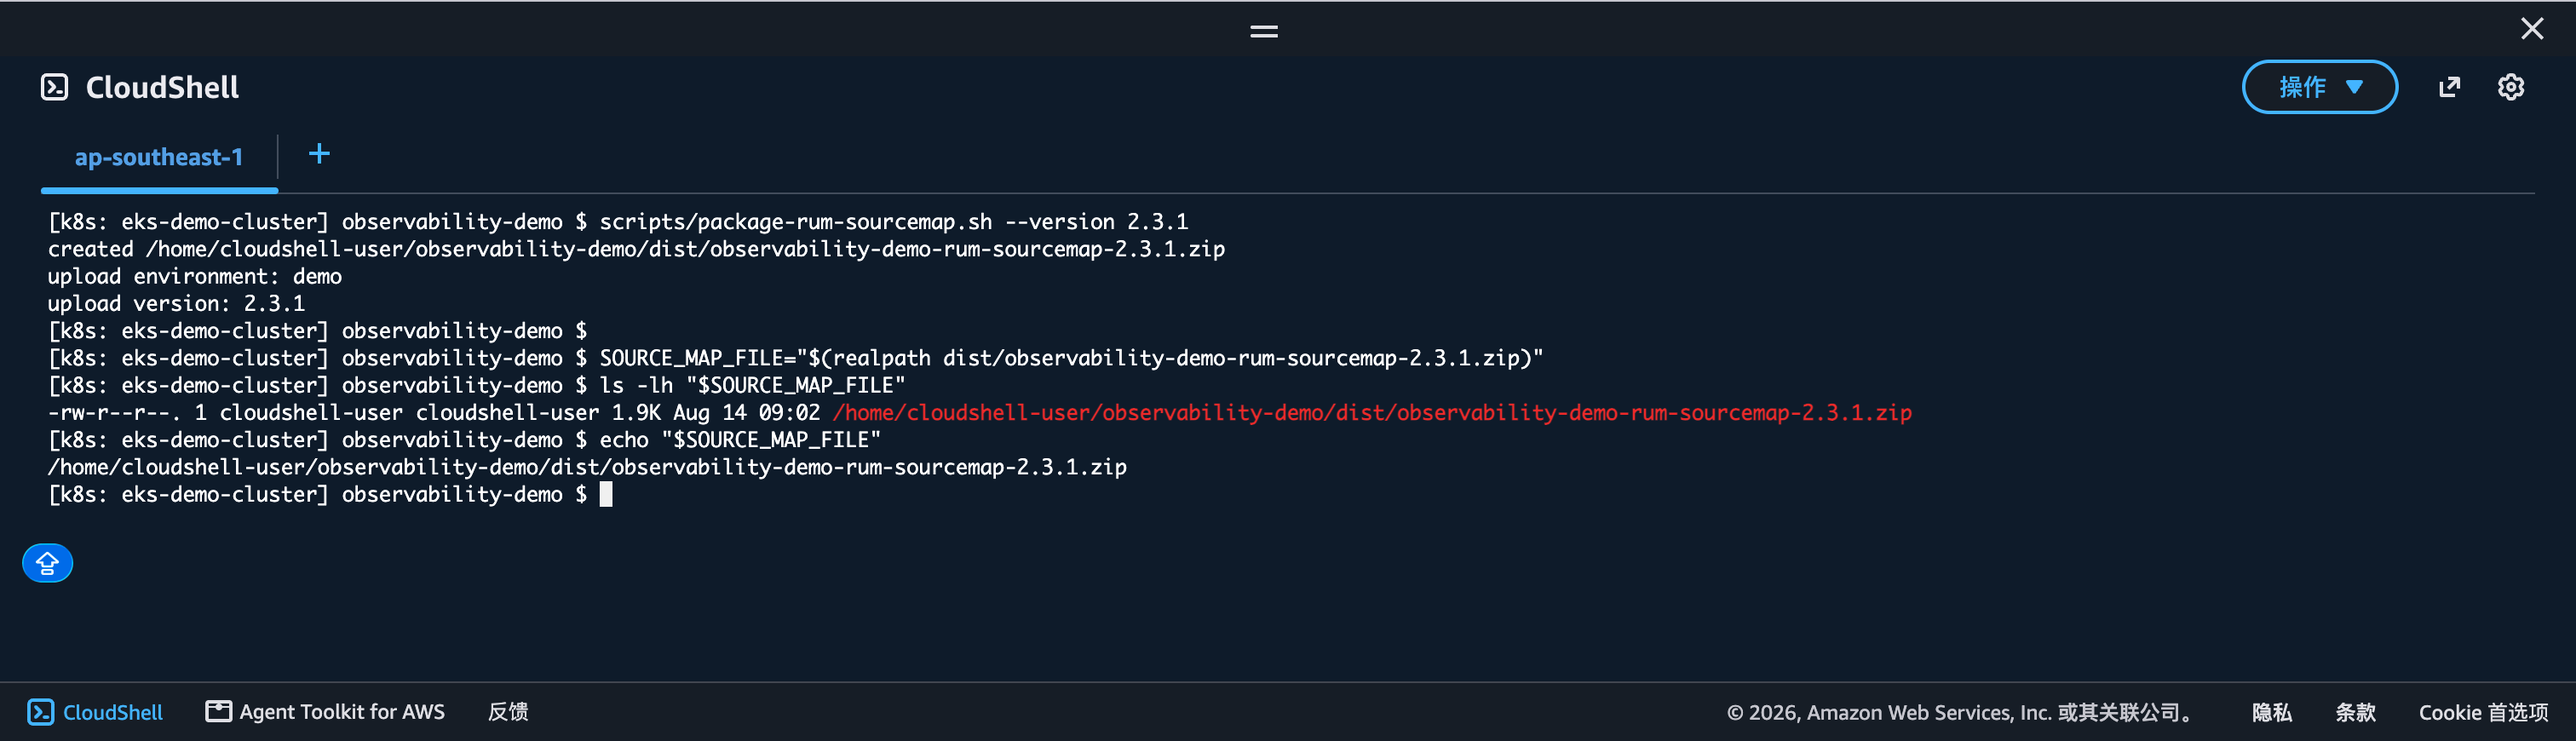
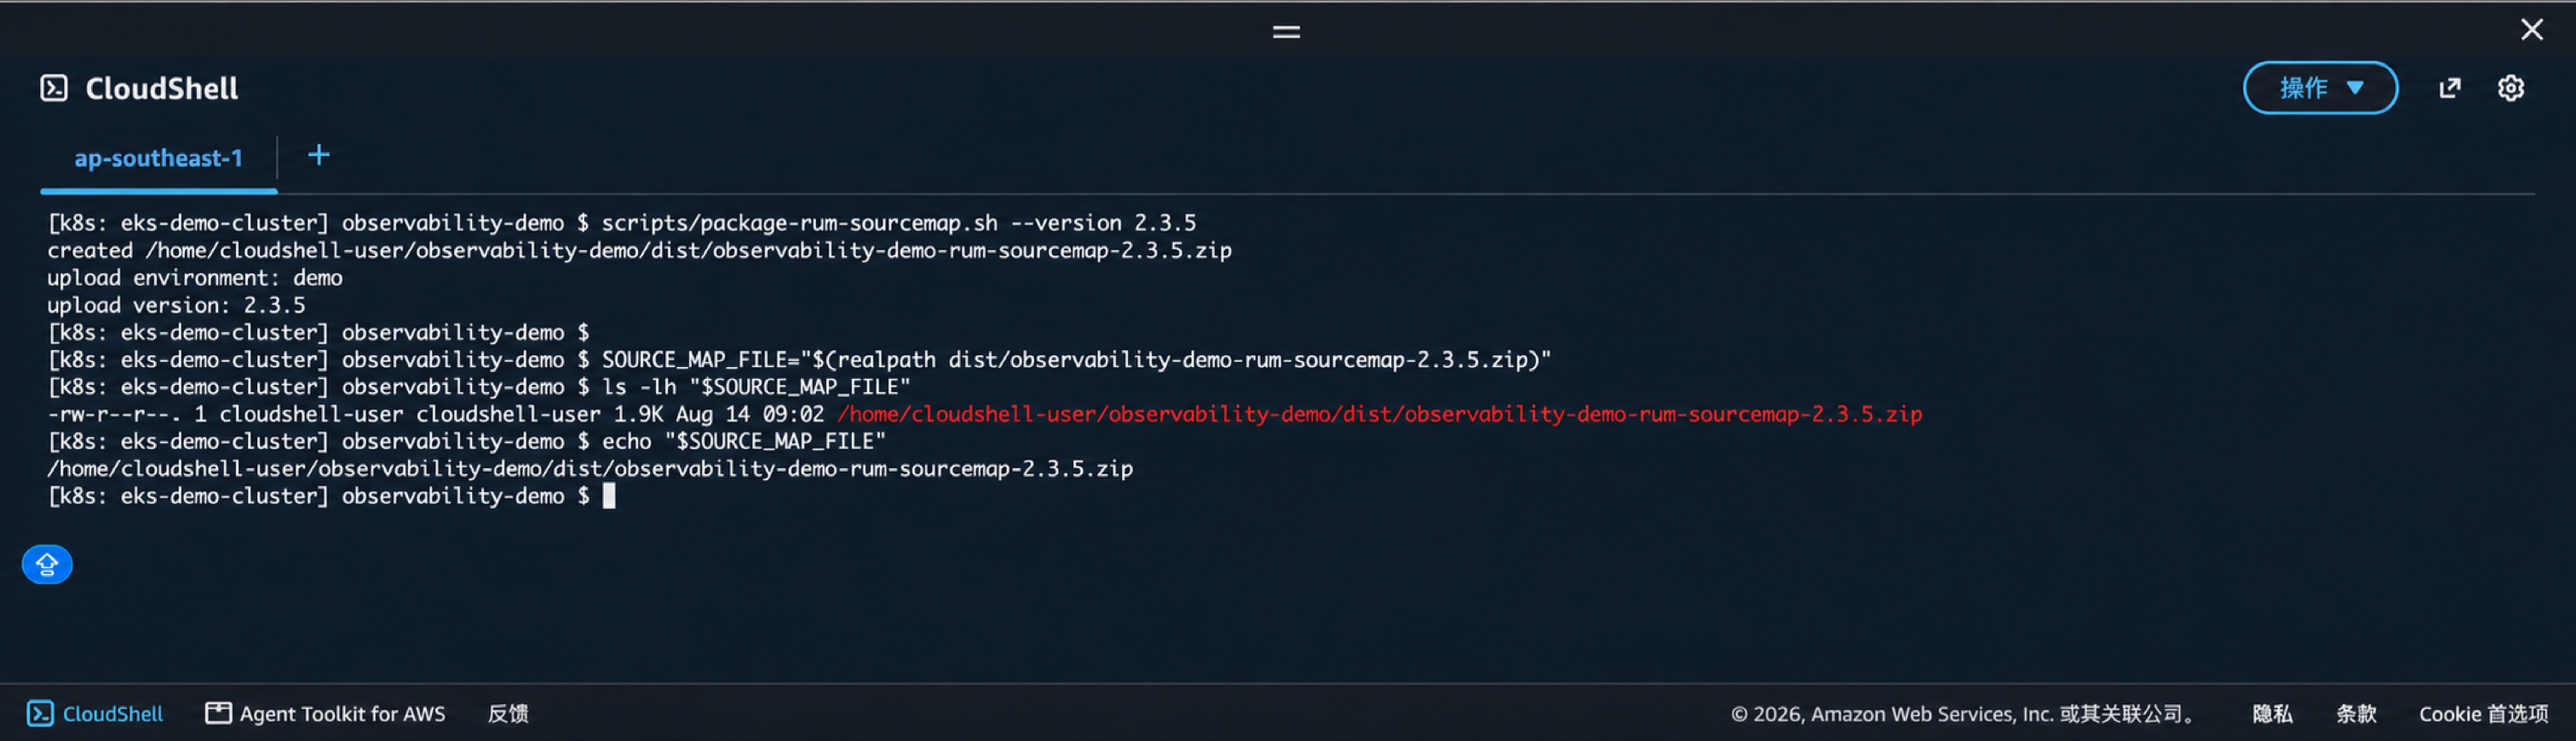
docs: add v2.3.5 workshop quick setup

diff --git a/content/02-setup/index.en.md b/content/02-setup/index.en.md
@@ -11,4 +11,49 @@ This chapter completes the foundational environment configuration from scratch t
 2. Create a Web RUM application in Guance and record the Application ID and Workspace ID.
 3. Deploy the microservice mall to EKS using public images and obtain the public access URL.
 
-Parameters that require user input are DataWay URL, RUM Application ID, and Guance Workspace ID. `project=mall-demo`, image tag `2.3.1`, Namespace, and Demo internal passwords are fixed or auto-generated by the tutorial.
+Parameters that require user input are DataWay URL, RUM Application ID, and Guance Workspace ID. `project=mall-demo`, image tag `2.3.5`, Namespace, and Demo internal passwords are fixed or auto-generated by the tutorial.
+
+### Quick Setup (Optional)
+
+If you already have an EKS cluster with a Ready EC2 worker node, use the quick path to install DataKit and the Demo. The existing step-by-step tutorial remains available for configuration details and troubleshooting.
+
+#### 1. Prepare Platform Parameters
+
+Complete the following preparation in the [Guance console](https://console.guance.com/):
+
+1. Go to **Integration → DataKit → Kubernetes(Helm)** and copy the full `datakit.dataway_url` value.
+2. Go to **RUM → Application → Create**, create a Web RUM application, and copy its **Application ID** and the current workspace's **Workspace ID**.
+
+Open AWS CloudShell and declare all parameters required by the quick setup. CloudShell supplies the current Region automatically. The DataWay URL contains a sensitive token; hidden input prevents it from entering shell history:
+
+```shell
+export EKS_CLUSTER_NAME="eks-demo-cluster"
+read -rsp 'DataWay URL: ' DATAWAY_URL && export DATAWAY_URL && echo
+read -rp 'RUM Application ID: ' RUM_APPLICATION_ID && export RUM_APPLICATION_ID
+read -rp 'Guance Workspace ID: ' GUANCE_WORKSPACE_ID && export GUANCE_WORKSPACE_ID
+```
+
+#### 2. Run the Quick Installation
+
+Clone the pinned release from the official Guance repository and run the installer from the repository root:
+
+```shell
+export DEMO_VERSION="2.3.5"
+git clone --branch "v${DEMO_VERSION}" --depth 1 \
+  https://github.com/GuanceDemo/observability-demo.git
+cd observability-demo
+
+scripts/workshop.sh install
+```
+
+If Helm is unavailable, the script installs and verifies Helm `v3.17.3`. It displays the AWS identity, target Kubernetes context, and nodes, then installs DataKit `2.5.0` and all six Demo workloads after confirmation and waits for a public Gateway hostname or IP. For automation, use `scripts/workshop.sh install --yes` to skip confirmation.
+
+If the `datakit/datakit` Helm Release already exists, the script stops by default to avoid overwriting shared configuration. Use the following step-by-step chapters instead. Only when you have confirmed that the existing DataKit may be upgraded should you explicitly run `scripts/workshop.sh install --upgrade-existing-datakit`.
+
+After a successful installation, the script prints `DEMO_BASE_URL` and the SourceMap version reminder. It does not run smoke tests, generate traffic, or inject faults. Clear the parameters from the current shell:
+
+```shell
+unset DATAWAY_URL RUM_APPLICATION_ID GUANCE_WORKSPACE_ID
+```
+
+Next, complete **Create RUM Client Application → Step 3: Prepare SourceMap Files**, then continue to chapter 3 for observation and fault demonstrations. Continue with the following step-by-step chapters whenever you need the complete deployment process or troubleshooting details.

diff --git a/content/02-setup/index.zh-TW.md b/content/02-setup/index.zh-TW.md
@@ -11,4 +11,49 @@ weight : 20
 2. 在觀測雲建立 Web RUM 應用並記錄 Application ID 和 Workspace ID。
 3. 使用公開映像將微服務商城部署到 EKS，並取得公網存取 URL。
 
-需要使用者填寫的參數為 DataWay URL、RUM Application ID 和觀測雲 Workspace ID。`project=mall-demo`、映像標籤 `2.3.1`、Namespace 以及 Demo 內部密碼均由教程固定或自動產生。
+需要使用者填寫的參數為 DataWay URL、RUM Application ID 和觀測雲 Workspace ID。`project=mall-demo`、映像標籤 `2.3.5`、Namespace 以及 Demo 內部密碼均由教學固定或自動產生。
+
+### 快速搭建（可選）
+
+如果已有包含 Ready EC2 工作節點的 EKS 叢集，可以使用快速路徑完成 DataKit 和 Demo 安裝。現有分步教學繼續保留，用於瞭解設定細節和疑難排解。
+
+#### 1. 準備平台參數
+
+開始前請在[觀測雲控制台](https://console.guance.com/)完成以下準備：
+
+1. 進入 **整合 → DataKit → Kubernetes(Helm)**，複製 `datakit.dataway_url` 的完整值。
+2. 進入 **使用者訪問監測 → 應用列表 → 新建應用**，建立 Web RUM 應用，複製 **Application ID** 和目前工作空間的 **Workspace ID**。
+
+開啟 AWS CloudShell，集中宣告快速安裝所需參數。CloudShell 會自動提供目前區域。DataWay URL 包含敏感 token，使用隱藏輸入可避免它進入 Shell 歷史：
+
+```shell
+export EKS_CLUSTER_NAME="eks-demo-cluster"
+read -rsp 'DataWay URL: ' DATAWAY_URL && export DATAWAY_URL && echo
+read -rp 'RUM Application ID: ' RUM_APPLICATION_ID && export RUM_APPLICATION_ID
+read -rp '觀測雲 Workspace ID: ' GUANCE_WORKSPACE_ID && export GUANCE_WORKSPACE_ID
+```
+
+#### 2. 執行快速安裝
+
+複製 Guance 官方固定版本，並在儲存庫根目錄執行安裝命令：
+
+```shell
+export DEMO_VERSION="2.3.5"
+git clone --branch "v${DEMO_VERSION}" --depth 1 \
+  https://github.com/GuanceDemo/observability-demo.git
+cd observability-demo
+
+scripts/workshop.sh install
+```
+
+腳本會自動安裝並驗證 Helm `v3.17.3`（僅在 Helm 缺失時），顯示 AWS 身分、目標 Kubernetes context 和節點，確認後安裝 DataKit `2.5.0` 與六個 Demo 工作負載，並等待 Gateway 取得公網 hostname 或 IP。自動化環境可使用 `scripts/workshop.sh install --yes` 跳過確認。
+
+如果已經存在 `datakit/datakit` Helm Release，腳本會預設停止，避免覆蓋共用設定。請改用本章後續的分步教學；只有確認允許升級現有 DataKit 時，才明確執行 `scripts/workshop.sh install --upgrade-existing-datakit`。
+
+安裝成功後，腳本會輸出 `DEMO_BASE_URL` 和 SourceMap 的版本提示。它不會執行 smoke test、產生流量或注入故障。請清理目前 Shell 中的參數：
+
+```shell
+unset DATAWAY_URL RUM_APPLICATION_ID GUANCE_WORKSPACE_ID
+```
+
+接下來完成 **建立 RUM 客戶端應用 → 步驟三：準備 SourceMap 檔案**，然後進入第三章繼續觀測與故障示範。需要瞭解完整部署過程或疑難排解時，繼續閱讀本章後續的分步教學。

diff --git a/content/02-setup/index.zh-CN.md b/content/02-setup/index.zh-CN.md
@@ -11,4 +11,49 @@ weight : 20
 2. 在观测云创建 Web RUM 应用并记录 Application ID 和 Workspace ID。
 3. 使用公开镜像将微服务商城部署到 EKS，并取得公网访问 URL。
 
-需要用户填写的参数为 DataWay URL、RUM Application ID 和观测云 Workspace ID。`project=mall-demo`、镜像标签 `2.3.1`、Namespace 以及 Demo 内部密码均由教程固定或自动生成。
+需要用户填写的参数为 DataWay URL、RUM Application ID 和观测云 Workspace ID。`project=mall-demo`、镜像标签 `2.3.5`、Namespace 以及 Demo 内部密码均由教程固定或自动生成。
+
+### 快速搭建（可选）
+
+如果已经有包含 Ready EC2 工作节点的 EKS 集群，可以使用快速路径完成 DataKit 和 Demo 安装。现有分步教程继续保留，用于了解配置细节和排查问题。
+
+#### 1. 准备平台参数
+
+开始前请在[观测云控制台](https://console.guance.com/)完成以下准备：
+
+1. 进入 **集成 → DataKit → Kubernetes(Helm)**，复制 `datakit.dataway_url` 的完整值。
+2. 进入 **用户访问监测 → 应用列表 → 新建应用**，创建 Web RUM 应用，复制 **Application ID** 和当前工作空间的 **Workspace ID**。
+
+打开 AWS CloudShell，集中声明快速安装所需参数。CloudShell 会自动提供当前区域。DataWay URL 包含敏感 token，使用隐藏输入可避免它进入 Shell 历史：
+
+```shell
+export EKS_CLUSTER_NAME="eks-demo-cluster"
+read -rsp 'DataWay URL: ' DATAWAY_URL && export DATAWAY_URL && echo
+read -rp 'RUM Application ID: ' RUM_APPLICATION_ID && export RUM_APPLICATION_ID
+read -rp '观测云 Workspace ID: ' GUANCE_WORKSPACE_ID && export GUANCE_WORKSPACE_ID
+```
+
+#### 2. 执行快速安装
+
+克隆 Guance 官方固定版本，并在仓库根目录运行安装命令：
+
+```shell
+export DEMO_VERSION="2.3.5"
+git clone --branch "v${DEMO_VERSION}" --depth 1 \
+  https://github.com/GuanceDemo/observability-demo.git
+cd observability-demo
+
+scripts/workshop.sh install
+```
+
+脚本会自动安装并校验 Helm `v3.17.3`（仅在 Helm 缺失时），显示 AWS 身份、目标 Kubernetes context 和节点，确认后安装 DataKit `2.5.0` 与六个 Demo 工作负载，并等待 Gateway 获得公网 hostname 或 IP。自动化环境可使用 `scripts/workshop.sh install --yes` 跳过确认。
+
+如果已经存在 `datakit/datakit` Helm Release，脚本会默认停止，避免覆盖共享配置。请改用本章后续的分步教程；只有确认允许升级现有 DataKit 时，才显式执行 `scripts/workshop.sh install --upgrade-existing-datakit`。
+
+安装成功后，脚本会输出 `DEMO_BASE_URL` 和 SourceMap 的版本提示。它不会运行 smoke test、生成流量或注入故障。请清理当前 Shell 中的参数：
+
+```shell
+unset DATAWAY_URL RUM_APPLICATION_ID GUANCE_WORKSPACE_ID
+```
+
+接下来完成 **创建 RUM 客户端应用 → 步骤三：准备 SourceMap 文件**，然后进入第三章继续观测和故障演示。需要了解完整部署过程或排查安装问题时，继续阅读本章后续的分步教程。

diff --git a/content/02-setup/02-create-client-application/index.en.md b/content/02-setup/02-create-client-application/index.en.md
@@ -38,16 +38,16 @@ In the next chapter, the RUM Application ID and Guance Workspace ID will be pass
 The demo already includes compressed JavaScript and SourceMap files for demonstrating source code restoration. Run the following in the repository root directory:
 
 ```shell
-scripts/package-rum-sourcemap.sh --version 2.3.1
+scripts/package-rum-sourcemap.sh --version 2.3.5
 
-SOURCE_MAP_FILE="$(realpath dist/observability-demo-rum-sourcemap-2.3.1.zip)"
+SOURCE_MAP_FILE="$(realpath dist/observability-demo-rum-sourcemap-2.3.5.zip)"
 ls -lh "$SOURCE_MAP_FILE"
 echo "$SOURCE_MAP_FILE"
 ```
 
 ![04](/static/static-23/04.png)
 
-Next, download the observability-demo-rum-sourcemap-2.3.1.zip file from AWS CloudShell to your browser's default download directory:
+Next, download the observability-demo-rum-sourcemap-2.3.5.zip file from AWS CloudShell to your browser's default download directory:
 
 1. Click **Actions** in the upper-right corner of AWS CloudShell.
 2. Select **Download file**.
@@ -56,10 +56,10 @@ Next, download the observability-demo-rum-sourcemap-2.3.1.zip file from AWS Clou
 
 ![05](/static/static-23/05.png)
 
-The generated file is located at `dist/observability-demo-rum-sourcemap-2.3.1.zip`. Go to the settings of the RUM application you just created, upload the zip file on the **SourceMap** page, and fill in:
+The generated file is located at `dist/observability-demo-rum-sourcemap-2.3.5.zip`. Go to the settings of the RUM application you just created, upload the zip file on the **SourceMap** page, and fill in:
 
 - Environment: `demo`
-- Version: `2.3.1`
+- Version: `2.3.5`
 
 ![06](/static/static-23/06.png)
 

diff --git a/content/02-setup/02-create-client-application/index.zh-CN.md b/content/02-setup/02-create-client-application/index.zh-CN.md
@@ -38,16 +38,16 @@ read -rp '观测云 Workspace ID: ' GUANCE_WORKSPACE_ID && export GUANCE_WORKSPA
 Demo 已包含用于演示源码还原的压缩 JavaScript 与 SourceMap。在仓库根目录执行：
 
 ```shell
-scripts/package-rum-sourcemap.sh --version 2.3.1
+scripts/package-rum-sourcemap.sh --version 2.3.5
 
-SOURCE_MAP_FILE="$(realpath dist/observability-demo-rum-sourcemap-2.3.1.zip)"
+SOURCE_MAP_FILE="$(realpath dist/observability-demo-rum-sourcemap-2.3.5.zip)"
 ls -lh "$SOURCE_MAP_FILE"
 echo "$SOURCE_MAP_FILE"
 ```
 
 ![04](/static/static-23/04.png)
 
-随后将 AWS CloudShell 里面的 observability-demo-rum-sourcemap-2.3.1.zip 文件下载到浏览器默认下载目录：
+随后将 AWS CloudShell 里面的 observability-demo-rum-sourcemap-2.3.5.zip 文件下载到浏览器默认下载目录：
 
 1. 点击 AWS CloudShell 右上角的 操作（Actions）。
 2. 选择 下载文件（Download file）。
@@ -56,10 +56,10 @@ echo "$SOURCE_MAP_FILE"
 
 ![05](/static/static-23/05.png)
 
-生成的文件位于 `dist/observability-demo-rum-sourcemap-2.3.1.zip`。进入刚刚创建的 RUM 应用设置，在 **SourceMap** 页面上传该压缩包，并填写：
+生成的文件位于 `dist/observability-demo-rum-sourcemap-2.3.5.zip`。进入刚刚创建的 RUM 应用设置，在 **SourceMap** 页面上传该压缩包，并填写：
 
 - Environment：`demo`
-- Version：`2.3.1`
+- Version：`2.3.5`
 
 ![06](/static/static-23/06.png)
 

diff --git a/content/02-setup/02-create-client-application/index.zh-TW.md b/content/02-setup/02-create-client-application/index.zh-TW.md
@@ -38,16 +38,16 @@ read -rp '觀測雲 Workspace ID: ' GUANCE_WORKSPACE_ID && export GUANCE_WORKSPA
 Demo 已包含用於演示原始碼還原的壓縮 JavaScript 與 SourceMap。在倉庫根目錄執行：
 
 ```shell
-scripts/package-rum-sourcemap.sh --version 2.3.1
+scripts/package-rum-sourcemap.sh --version 2.3.5
 
-SOURCE_MAP_FILE="$(realpath dist/observability-demo-rum-sourcemap-2.3.1.zip)"
+SOURCE_MAP_FILE="$(realpath dist/observability-demo-rum-sourcemap-2.3.5.zip)"
 ls -lh "$SOURCE_MAP_FILE"
 echo "$SOURCE_MAP_FILE"
 ```
 
 ![04](/static/static-23/04.png)
 
-隨後將 AWS CloudShell 裡面的 observability-demo-rum-sourcemap-2.3.1.zip 檔案下載到瀏覽器預設下載目錄：
+隨後將 AWS CloudShell 裡面的 observability-demo-rum-sourcemap-2.3.5.zip 檔案下載到瀏覽器預設下載目錄：
 
 1. 點擊 AWS CloudShell 右上角的 **Actions**。
 2. 選擇 **Download file**。
@@ -56,10 +56,10 @@ echo "$SOURCE_MAP_FILE"
 
 ![05](/static/static-23/05.png)
 
-產生的檔案位於 `dist/observability-demo-rum-sourcemap-2.3.1.zip`。進入剛剛建立的 RUM 應用設定，在 **SourceMap** 頁面上傳該壓縮包，並填寫：
+產生的檔案位於 `dist/observability-demo-rum-sourcemap-2.3.5.zip`。進入剛剛建立的 RUM 應用設定，在 **SourceMap** 頁面上傳該壓縮包，並填寫：
 
 - Environment：`demo`
-- Version：`2.3.1`
+- Version：`2.3.5`
 
 ![06](/static/static-23/06.png)
 

diff --git a/content/02-setup/03-deploy-demo-application/index.en.md b/content/02-setup/03-deploy-demo-application/index.en.md
@@ -5,7 +5,7 @@ weight : 23
 
 ## Deploy Demo Application
 
-This chapter deploys the shopping mall demo to AWS EKS using the public Harbor `2.3.1` images. No image build, ECR configuration, or registry login is required in CloudShell. Except for the Gateway, the order, inventory, payment, MySQL, and Redis services remain cluster-internal.
+This chapter deploys the shopping mall demo to AWS EKS using the public Harbor `2.3.5` images. No image build, ECR configuration, or registry login is required in CloudShell. Except for the Gateway, the order, inventory, payment, MySQL, and Redis services remain cluster-internal.
 
 The Gateway is public and the demo fault endpoints intentionally require no credential. Use this profile only in an isolated, short-lived workshop cluster and clean it up after the exercise.
 
@@ -29,7 +29,7 @@ unset RUM_APPLICATION_ID GUANCE_WORKSPACE_ID
 
 ![01](/static/static-24/01.png)
 
-The profile pulls `pubrepo.jiagouyun.com/demo/observability-demo-{gateway,order,inventory,payment}-service:2.3.1` with `IfNotPresent`. The images are public and support `linux/amd64` and `linux/arm64`.
+The profile pulls `pubrepo.jiagouyun.com/demo/observability-demo-{gateway,order,inventory,payment}-service:2.3.5` with `IfNotPresent`. The images are public and support `linux/amd64` and `linux/arm64`.
 
 ### Step 2: Wait for Workloads to Become Ready
 

diff --git a/content/02-setup/03-deploy-demo-application/index.zh-TW.md b/content/02-setup/03-deploy-demo-application/index.zh-TW.md
@@ -5,7 +5,7 @@ weight : 23
 
 ## 部署示範應用
 
-本章使用公開 Harbor `2.3.1` 映像將商城 Demo 部署到 AWS EKS，無需在 CloudShell 中建置映像、設定 ECR 或登入映像倉庫。除 Gateway 外，訂單、庫存、支付、MySQL 和 Redis 都只在叢集內部存取。
+本章使用公開 Harbor `2.3.5` 映像將商城 Demo 部署到 AWS EKS，無需在 CloudShell 中建置映像、設定 ECR 或登入映像倉庫。除 Gateway 外，訂單、庫存、支付、MySQL 和 Redis 都只在叢集內部存取。
 
 Gateway 會公開到網際網路，Demo 故障介面有意不要求控制憑證。此 profile 只能用於隔離、短期的 Workshop 叢集，練習結束後應及時清理。
 
@@ -29,7 +29,7 @@ unset RUM_APPLICATION_ID GUANCE_WORKSPACE_ID
 
 ![01](/static/static-24/01.png)
 
-此 profile 使用 `IfNotPresent` 拉取 `pubrepo.jiagouyun.com/demo/observability-demo-{gateway,order,inventory,payment}-service:2.3.1`。映像公開並同時支援 `linux/amd64` 和 `linux/arm64`。
+此 profile 使用 `IfNotPresent` 拉取 `pubrepo.jiagouyun.com/demo/observability-demo-{gateway,order,inventory,payment}-service:2.3.5`。映像公開並同時支援 `linux/amd64` 和 `linux/arm64`。
 
 ### 步驟二：等待工作負載就緒
 

diff --git a/content/02-setup/03-deploy-demo-application/index.zh-CN.md b/content/02-setup/03-deploy-demo-application/index.zh-CN.md
@@ -5,7 +5,7 @@ weight : 23
 
 ## 部署示范应用
 
-本章使用公开 Harbor `2.3.1` 镜像将商城 Demo 部署到 AWS EKS，无需在 CloudShell 中构建镜像、配置 ECR 或登录镜像仓库。除 Gateway 外，订单、库存、支付、MySQL 和 Redis 都只在集群内部访问。
+本章使用公开 Harbor `2.3.5` 镜像将商城 Demo 部署到 AWS EKS，无需在 CloudShell 中构建镜像、配置 ECR 或登录镜像仓库。除 Gateway 外，订单、库存、支付、MySQL 和 Redis 都只在集群内部访问。
 
 Gateway 会暴露到公网，Demo 故障接口有意不要求控制凭证。该 profile 只能用于隔离、短期的 Workshop 集群，练习结束后应及时清理。
 
@@ -29,7 +29,7 @@ unset RUM_APPLICATION_ID GUANCE_WORKSPACE_ID
 
 ![01](/static/static-24/01.png)
 
-该 profile 使用 `IfNotPresent` 拉取 `pubrepo.jiagouyun.com/demo/observability-demo-{gateway,order,inventory,payment}-service:2.3.1`。镜像公开并同时支持 `linux/amd64` 和 `linux/arm64`。
+该 profile 使用 `IfNotPresent` 拉取 `pubrepo.jiagouyun.com/demo/observability-demo-{gateway,order,inventory,payment}-service:2.3.5`。镜像公开并同时支持 `linux/amd64` 和 `linux/arm64`。
 
 ### 步骤二：等待工作负载就绪
 

diff --git a/content/02-setup/01-datakit-configuration/index.en.md b/content/02-setup/01-datakit-configuration/index.en.md
@@ -70,7 +70,7 @@ When `kubectl get nodes` shows at least one node with `Ready` status, the connec
 ### Step 4: Clone the Demo Repository
 
 ```shell
-export DEMO_VERSION="2.3.1"
+export DEMO_VERSION="2.3.5"
 git clone --branch "v${DEMO_VERSION}" --depth 1 \
   https://github.com/GuanceDemo/observability-demo.git
 cd observability-demo

diff --git a/content/02-setup/01-datakit-configuration/index.zh-TW.md b/content/02-setup/01-datakit-configuration/index.zh-TW.md
@@ -70,7 +70,7 @@ kubectl get nodes
 ### 步驟四：複製 Demo 儲存庫
 
 ```shell
-export DEMO_VERSION="2.3.1"
+export DEMO_VERSION="2.3.5"
 git clone --branch "v${DEMO_VERSION}" --depth 1 \
   https://github.com/GuanceDemo/observability-demo.git
 cd observability-demo

diff --git a/content/02-setup/01-datakit-configuration/index.zh-CN.md b/content/02-setup/01-datakit-configuration/index.zh-CN.md
@@ -70,7 +70,7 @@ kubectl get nodes
 ### 步骤四：克隆 Demo 仓库
 
 ```shell
-export DEMO_VERSION="2.3.1"
+export DEMO_VERSION="2.3.5"
 git clone --branch "v${DEMO_VERSION}" --depth 1 \
   https://github.com/GuanceDemo/observability-demo.git
 cd observability-demo
